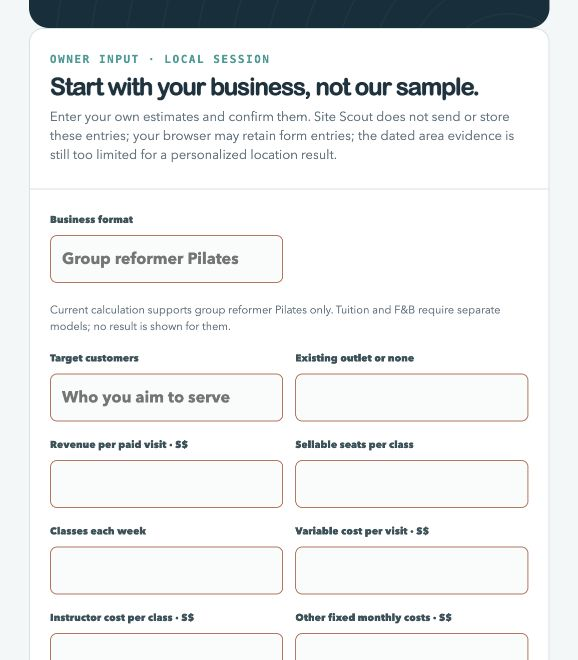
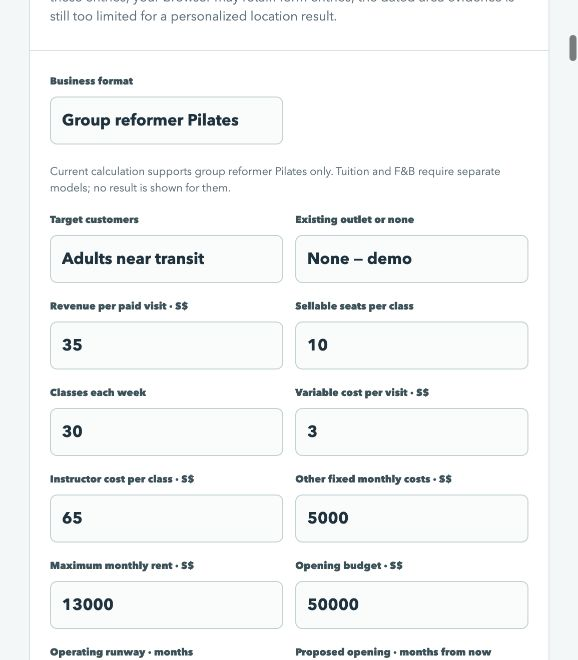
Record judge walkthrough handoff

diff --git a/outputs/IMPLEMENTATION_PLAN.md b/outputs/IMPLEMENTATION_PLAN.md
@@ -1287,3 +1287,11 @@ Acceptance: a fresh checkout runs from documented commands; the deployed demo co
 - Vercel preview reached Ready, packaged `api/investigate`, and streamed source → Jev route → three role stages → result. It chose `challenger`, completed three roles in **9,098 ms**, reported **US$0.000088478**, and abstained. The dedicated key's read-only balance moved from **US$0.098393335** to **US$0.098057009** before production verification; this movement includes an unexplained amount possibly associated with the timed-out attempt, so provider-reported successful charges are not asserted as full reconciled spend. The external non-resetting cap remains US$0.10. No credential was committed; `.env.local` and Vercel variable files are ignored, and a staged-file scan found **zero** matches for the dedicated key or demo code.
 - Published reviewed commit `c0c7169` to the feature branch and fast-forwarded GitHub `main`. GitHub auto-deployed it to [sitescoutsg.vercel.app](https://sitescoutsg.vercel.app/) with sensitive production variables configured server-side. Vercel deployment `dpl_8RCT2JeMdYS2PAXqupTvZqCTKYXR` reached **Ready** and includes the Node function. Public page returned HTTP 200 with the live controls; a wrong code returned 403. One correct-code production run matched the selected group digest, streamed all stages, chose `challenger`, completed three roles with zero failures, and returned `insufficient_evidence` in **8,963 ms** with **US$0.000078896** provider-reported cost. This is one bounded live run, not a latency guarantee.
 - Remaining blockers: Gate 5 as a whole is **open**. Only 162 of 10,817 HDB address leads were checked, KWN lacks a checked three-block group, and all whole towns remain unassessed. Exact premises availability, current rent, permitted Pilates use, transport catchment, competitors and demand are still missing; all real-area outcomes abstain. The roles currently analyze supplied dated context rather than retrieve or validate new sources. Jev did not shorten the measured workflow. Exact next minor task: capture a concise Devpost walkthrough and screenshots of owner-entered inputs, the checked sample map, real progress/role stages, and an abstaining/failure case; pair them with the GitHub/deployed URLs and the honest timing/cost comparison before the 19 October 23:45 SGT deadline. Do not call Gate 5 closed or claim a national winner.
+
+### 14 October 2026 — Judge walkthrough and owner-status correction
+
+- [x] Captured the deployed owner start, illustrative owner inputs, confirmed class economics, checked Queenstown map, abstaining owner result, and rejected-demo-code fallback in `outputs/devpost/`; assembled a short judge script with GitHub/deployment links and the honest same-case Jev comparison in `outputs/DEVPOST_DEMO_WALKTHROUGH.md`. These are real browser screenshots, not a simulated recommendation. A screenshot of a successful live role-stage sequence is still open pending browser credential-use confirmation; the previous credential-free production stream and paired comparison remain recorded above.
+- A production browser check exposed a real mismatch: confirmed owner status listed the older Punggol replay groups while the map/memo selected Queenstown. Test first: `npm test -- --run tests/owner-intake.test.ts` failed **1/16** on the old Punggol text. The smallest repair removed the unrelated list from that status and directed the owner to the checked sample map; evidence validation, arithmetic and abstention were untouched. Green: focused **16/16**, full `npm test` **402 passed, 16 opt-in skipped**, `npx tsc --noEmit`, `node --check prototype/owner-intake.mjs`, `git diff --check` and staged diff check passed. An independent specification reviewer **approved**; a different independent code-quality reviewer then **approved**, both with no unresolved finding.
+- Dependency audit: sandbox `npm audit --json` could not resolve the registry; read-only network retry reported **0 vulnerabilities across 64 dependencies**. No dependency or provider call was added by this fix or screenshot work; incremental API cost **US$0**. One intentionally invalid demo code was sent to the production function and correctly rejected before paid provider work. The illustrative business estimates remained local to the browser.
[1 lines of base64/hex data omitted]
+- Gate 5 remains **open**: 162 checked address points are a sample, not full Singapore site coverage; exact premises/rent/use, access, competitor catchment and demand remain unverified. Jev orders roles but the same-case comparison found no speed gain, and those roles do not retrieve new checked sources. Exact next task: if credential-use approval arrives, capture one real access-controlled Jev progress/result screenshot without exposing the code; then finalize the Devpost image set, commit/push this handoff, and prepare the illustrated Devpost submission before 19 October 23:45 SGT. If approval does not arrive, use the existing credential-free run record and label the live-stage screenshot absent rather than fabricate it.

diff --git a/outputs/DEVPOST_DEMO_WALKTHROUGH.md b/outputs/DEVPOST_DEMO_WALKTHROUGH.md
@@ -2,7 +2,7 @@
 
 Use the deployed [Site Scout demo](https://sitescoutsg.vercel.app/) and [public GitHub repository](https://github.com/minxie-ng/Site-Scout). This is a sampled, abstaining screening product for a group reformer Pilates operator, not a current lease recommendation. Allow about 90 seconds for the recorded presentation; a live provider run may take longer and requires the private demo access code.
 
-1. **The business starts the study.** Show the blank owner form. Enter clearly labelled *illustrative estimates*: S$35 per paid visit, 10 seats, 30 classes per week, S$3 variable cost per visit, S$65 instructor cost per class, S$5,000 other monthly costs, S$13,000 rent ceiling, S$50,000 opening budget, six months runway and opening in three months. Enter “Group reformer Pilates,” “Adults near transit,” and “None — demo” in the text fields. Confirm the estimates. The inputs stay in the browser; these figures do not establish customer demand. Screenshot: [owner start](devpost/01-owner-start.jpg) and [blank input form](devpost/02-owner-input.jpg).
+1. **The business starts the study.** Show the blank owner form. Enter clearly labelled *illustrative estimates*: S$35 per paid visit, 10 seats, 30 classes per week, S$3 variable cost per visit, S$65 instructor cost per class, S$5,000 other monthly costs, S$13,000 rent ceiling, S$50,000 opening budget, six months runway and opening in three months. Enter “Group reformer Pilates,” “Adults near transit,” and “None — demo” in the text fields. Confirm the estimates. The inputs stay in the browser; these figures do not establish customer demand. Screenshots: [owner start](devpost/01-owner-start.jpg), [entered illustrative inputs](devpost/02-owner-input.jpg), and [confirmed class economics](devpost/06-confirmed-economics.jpg).
 2. **Choose a specific checked area.** Scroll to the Queenstown, Ang Mo Kio and Marine Parade map and select Queenstown Blocks 1, 2 and 3 on Ghim Moh Road. Open the OneMap and HDB links beside a block and point out their retrieval dates. The 658 published dwellings are a derived housing-stock priority, not occupied homes or a national best-site score. The page reports 162 checked address points, 86 sampled three-block groups in 26 HDB codes, 10,647 unprobed leads, eight unresolved probes and 27 whole towns unassessed. Screenshot: [checked area map](devpost/03-checked-area.jpg).
 3. **See what the numbers can and cannot answer.** At 60% assumed paid-seat utilisation, the owner scenario is below its class-only break-even requirement of 827 paid visits/month (63.7% average utilisation) at the entered rent ceiling. Site Scout withholds the real-area recommendation because no exact available unit, current rent, permitted Pilates use, walking access, local competition or demand has been verified. The copyable memo preserves the block URLs, dates and limitations. Screenshot: [abstaining owner result](devpost/04-abstaining-result.jpg).
 4. **Show bounded live research.** With the private demo access code, press “Investigate selected group.” The deployed server checks the selected group digest, uses actual Jev Decisions to order the `area`, `market` and `challenger` roles, and streams observed stages. The roles inspect three prechecked block facts; they do not discover new verified sources or approve a site. If the code is wrong or the provider fails, the page keeps the checked map and local scenario available and labels the degraded state. Screenshot: [rejected access fallback](devpost/05-access-failure.jpg). Keep the code out of screenshots and the public write-up.
